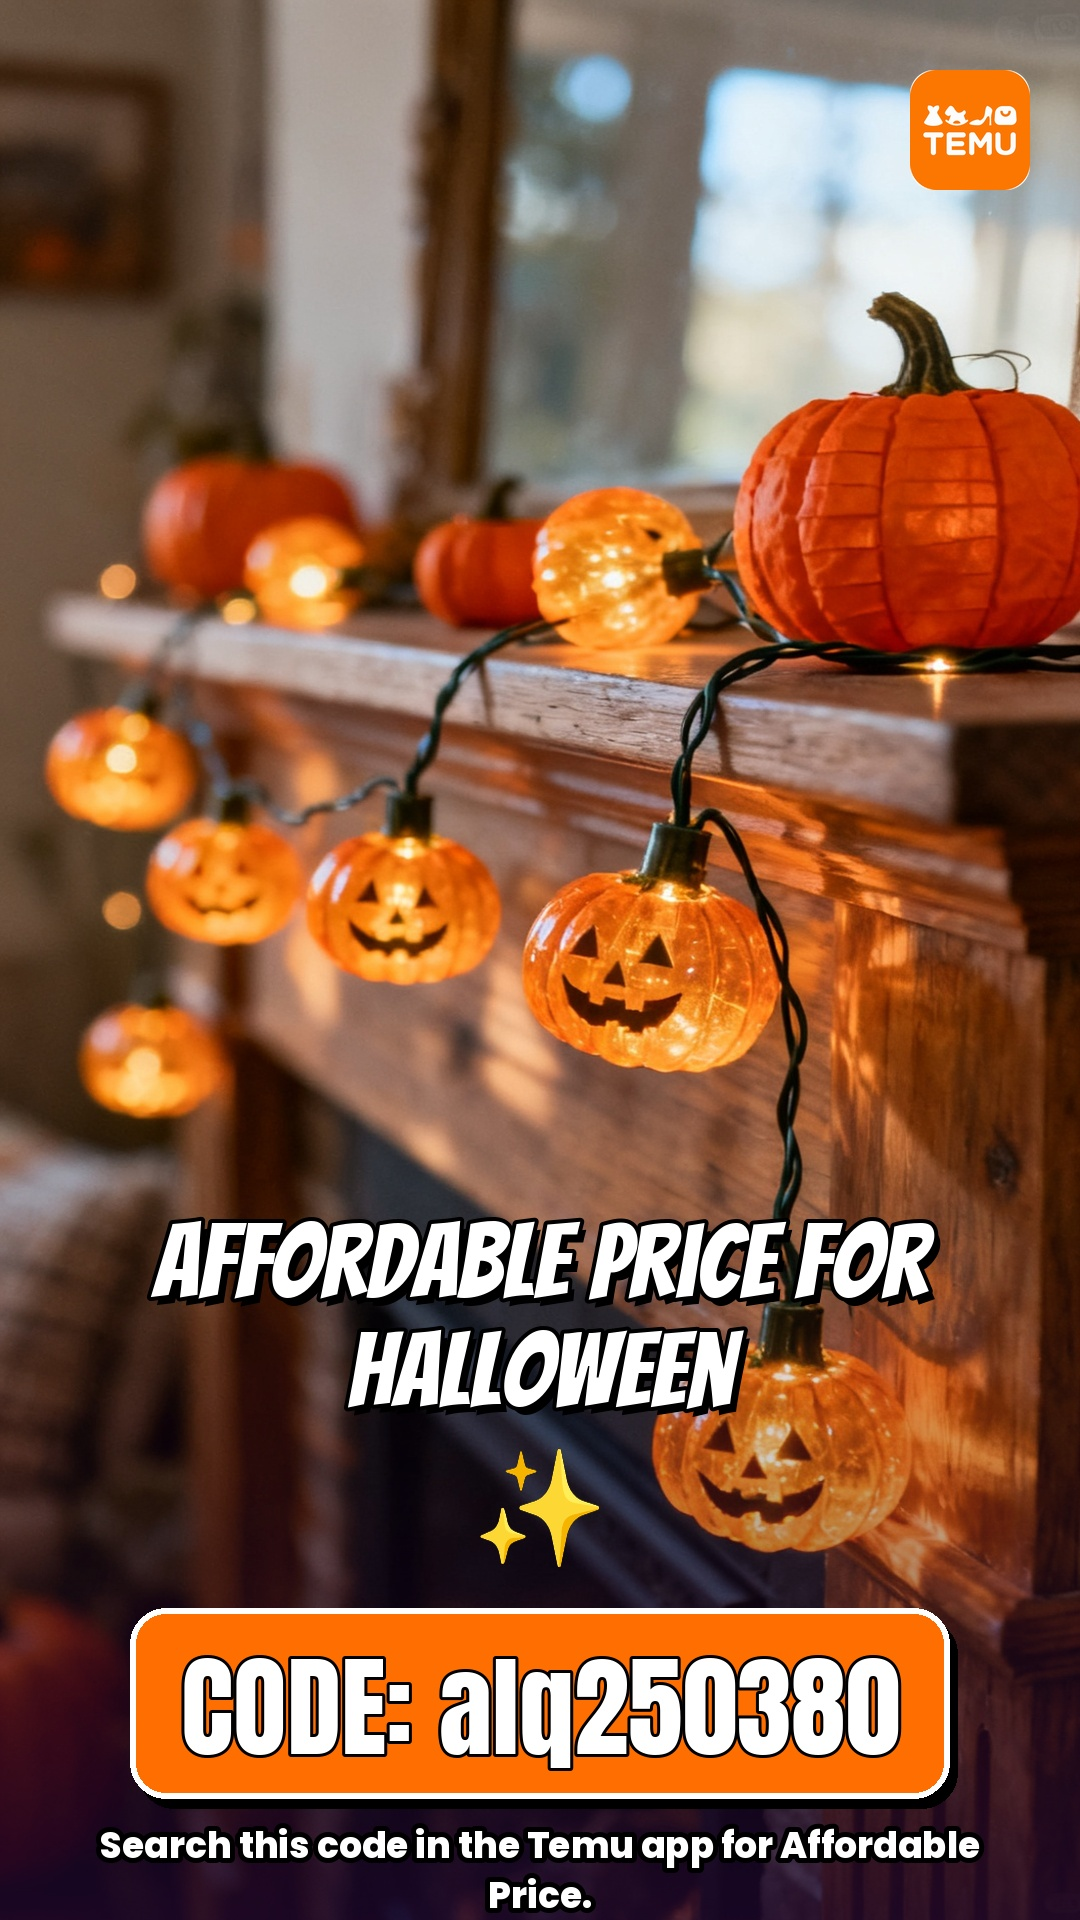
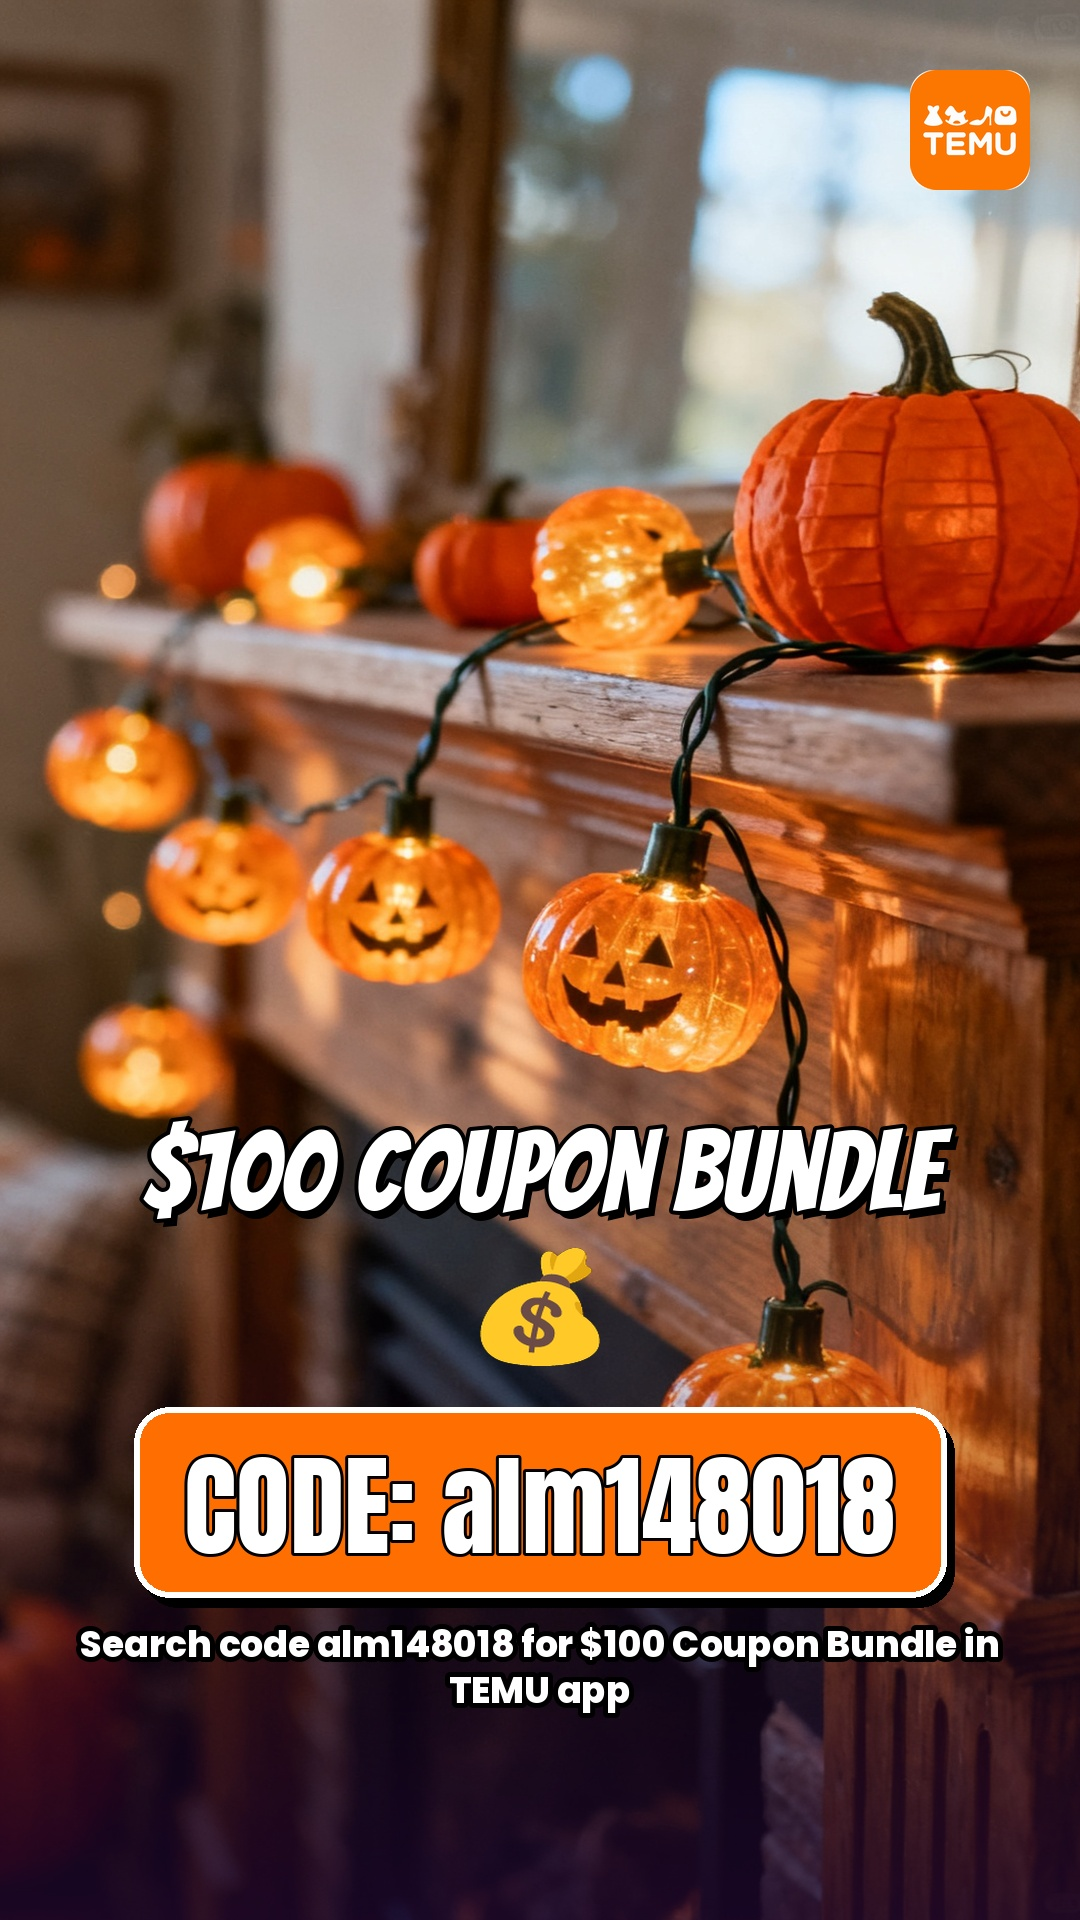
Temu : carrousel Halloween refait pour la campagne $100 Coupon Bundle uniquement
Claude-Session: https://claude.ai/code/session_01HfTJRBKojVvCYkTdJc6zQ1

Changed region(s): [[0.0611, 0.5625, 0.9472, 1.0]]

diff --git a/temu/tools/carousel.py b/temu/tools/carousel.py
@@ -33,7 +33,7 @@ for k, s in enumerate(C['slides'], 1):
         a = int(200 * (1 - y / 760) ** 1.4); yy = y if pos == 'top' else H - 1 - y
         gd.line([(0, yy), (W, yy)], fill=DARK + (a,))
     im.alpha_composite(grad)
-    y0 = 190 if pos == 'top' else H - 700
+    y0 = 190 if pos == 'top' else H - 800
     # titre
     tf = F(C.get('title_font', 'Bangers-Regular.ttf'), s.get('title_size', 120)); lines = wrap(s['title'], tf, W - 140)
     y = y0
@@ -58,6 +58,10 @@ for k, s in enumerate(C['slides'], 1):
         sub = F('Poppins-ExtraBold.ttf', 46); y += 10
         for ln in wrap(s['sub'], sub, W - 160):
             d.text((W / 2, y), ln, font=sub, fill=(255, 255, 255), anchor='mt', stroke_width=5, stroke_fill=(0, 0, 0)); y += 62
+    if s.get('disclaimer'):
+        df = F('Poppins-ExtraBold.ttf', 30); y += 20
+        for ln in wrap(s['disclaimer'], df, W - 140):
+            d.text((W / 2, y), ln, font=df, fill=(235, 235, 235), anchor='mt', stroke_width=4, stroke_fill=(0, 0, 0)); y += 40
     lx, ly = (W - 170, 70) if pos == 'bottom' else (W - 170, H - 230)
     im.alpha_composite(LOGO, (lx, ly))
     if s.get('swipe'):
